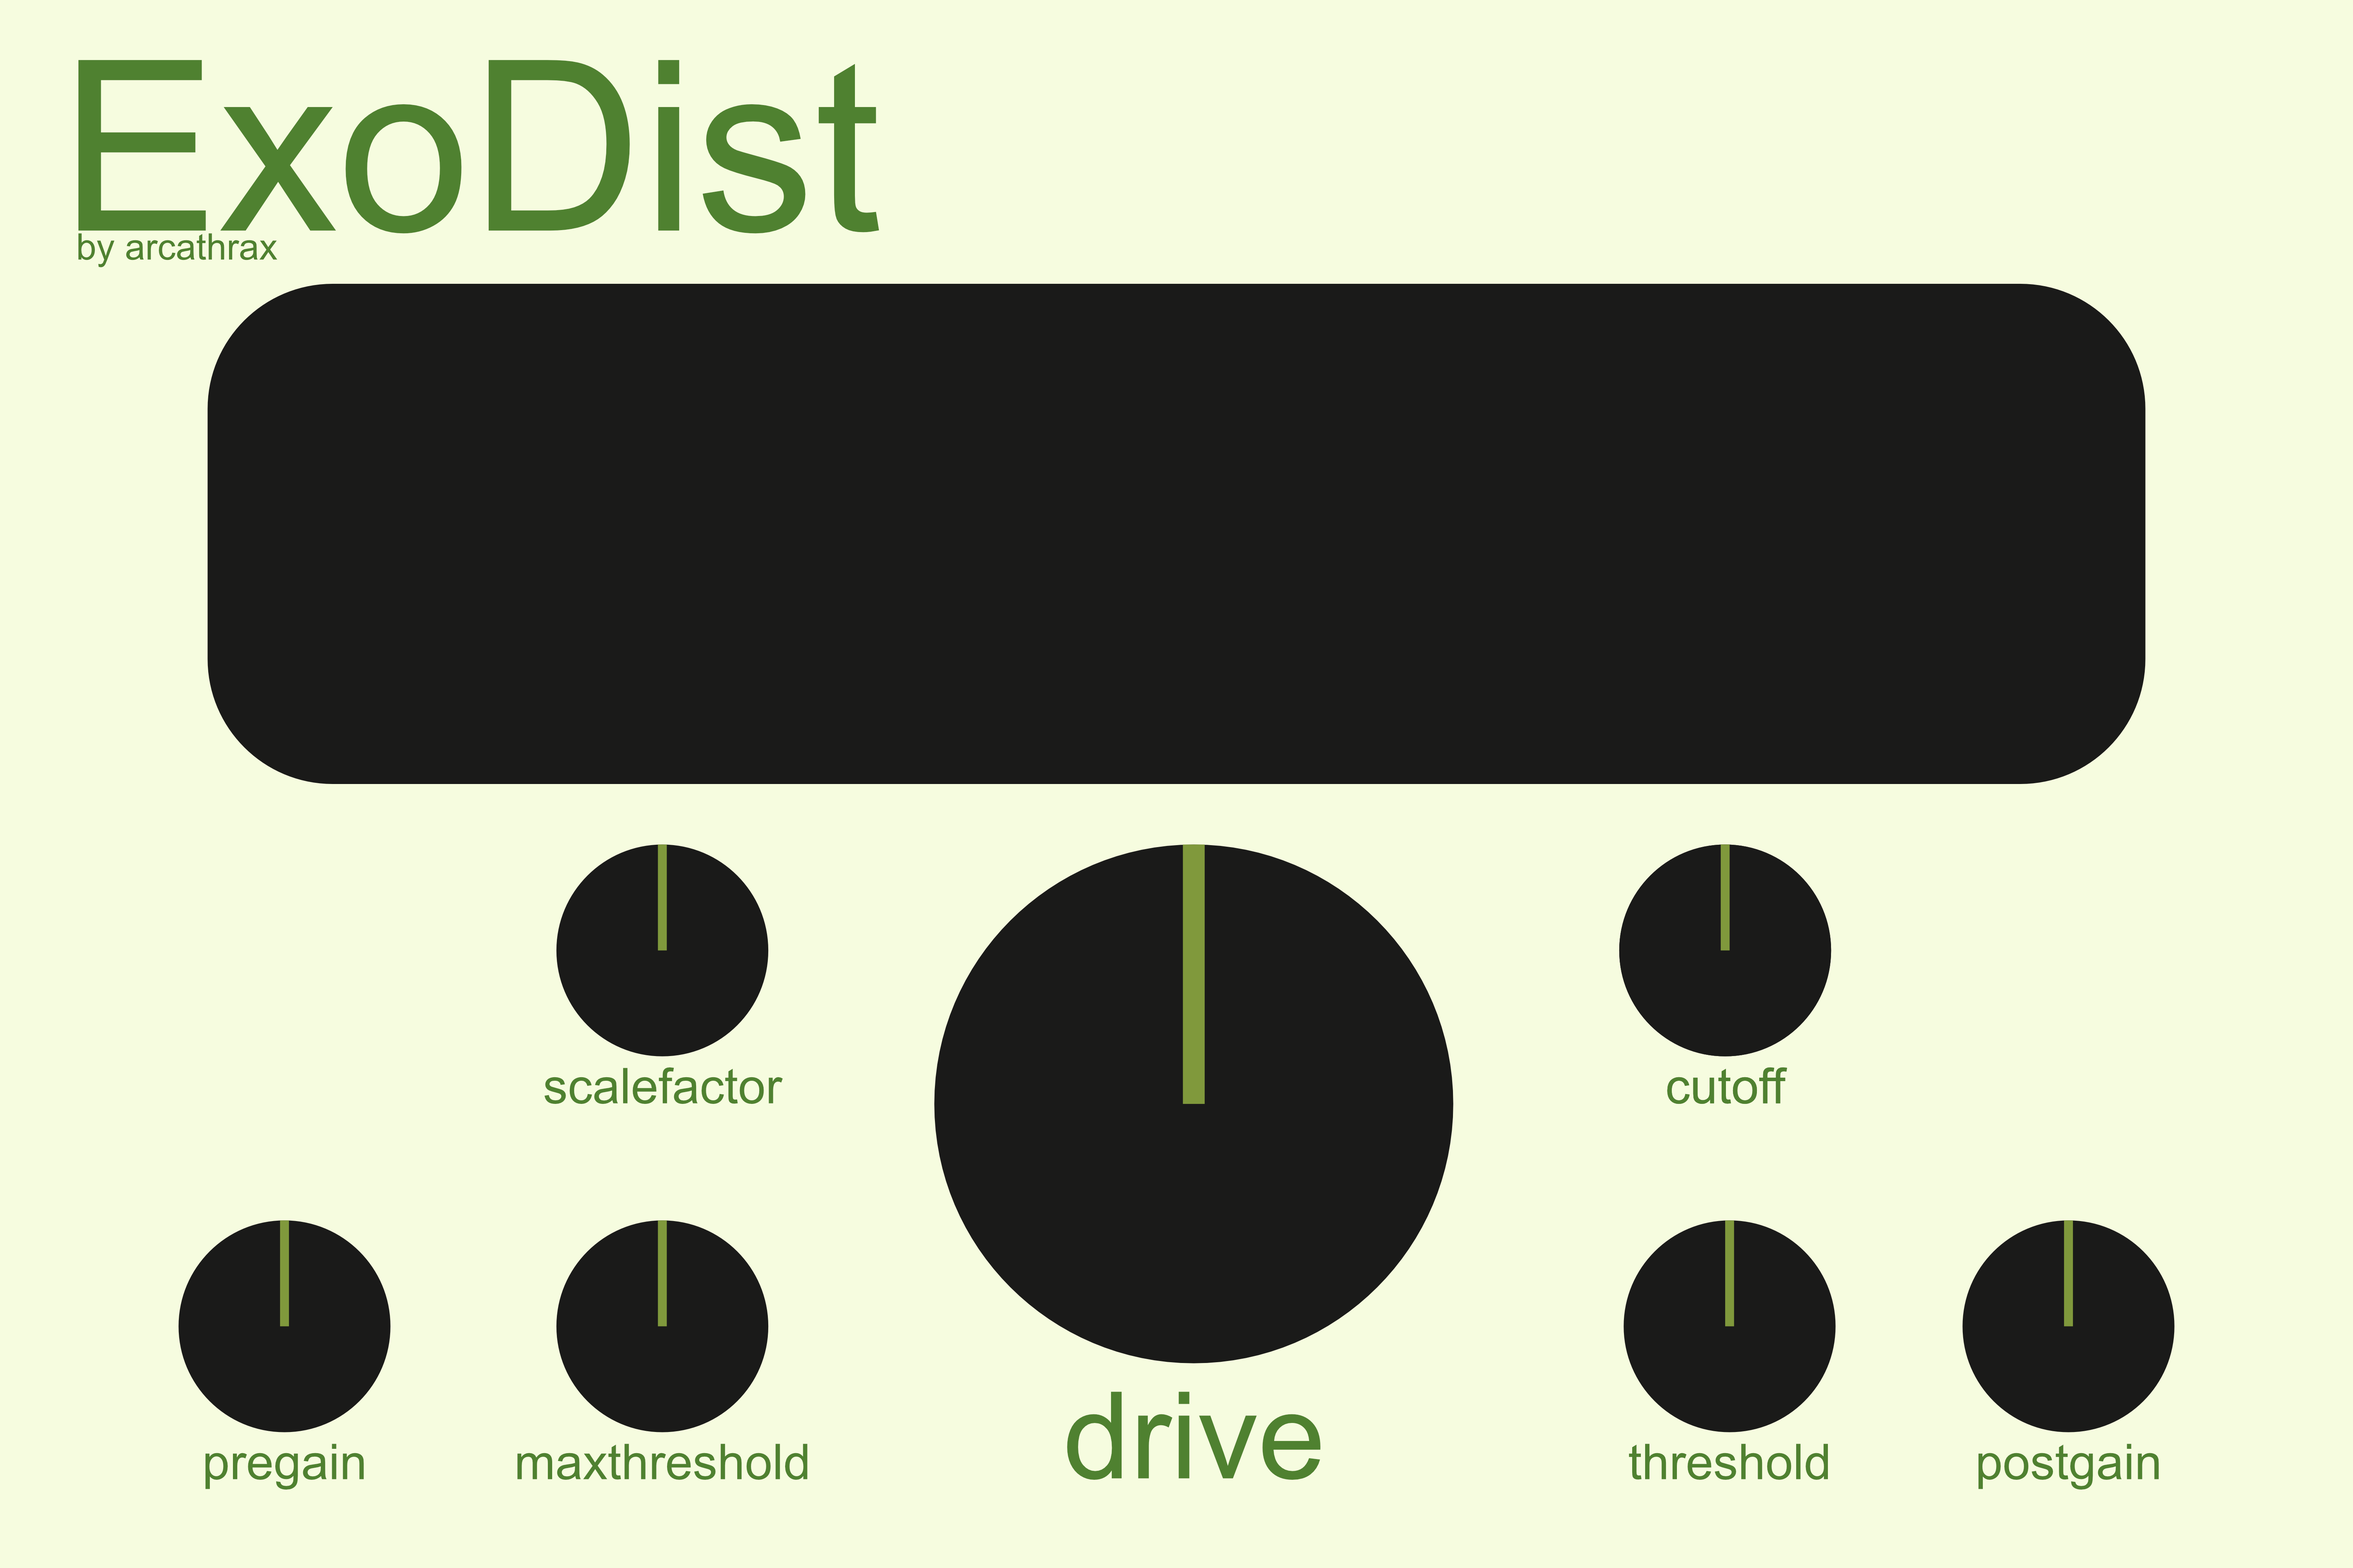
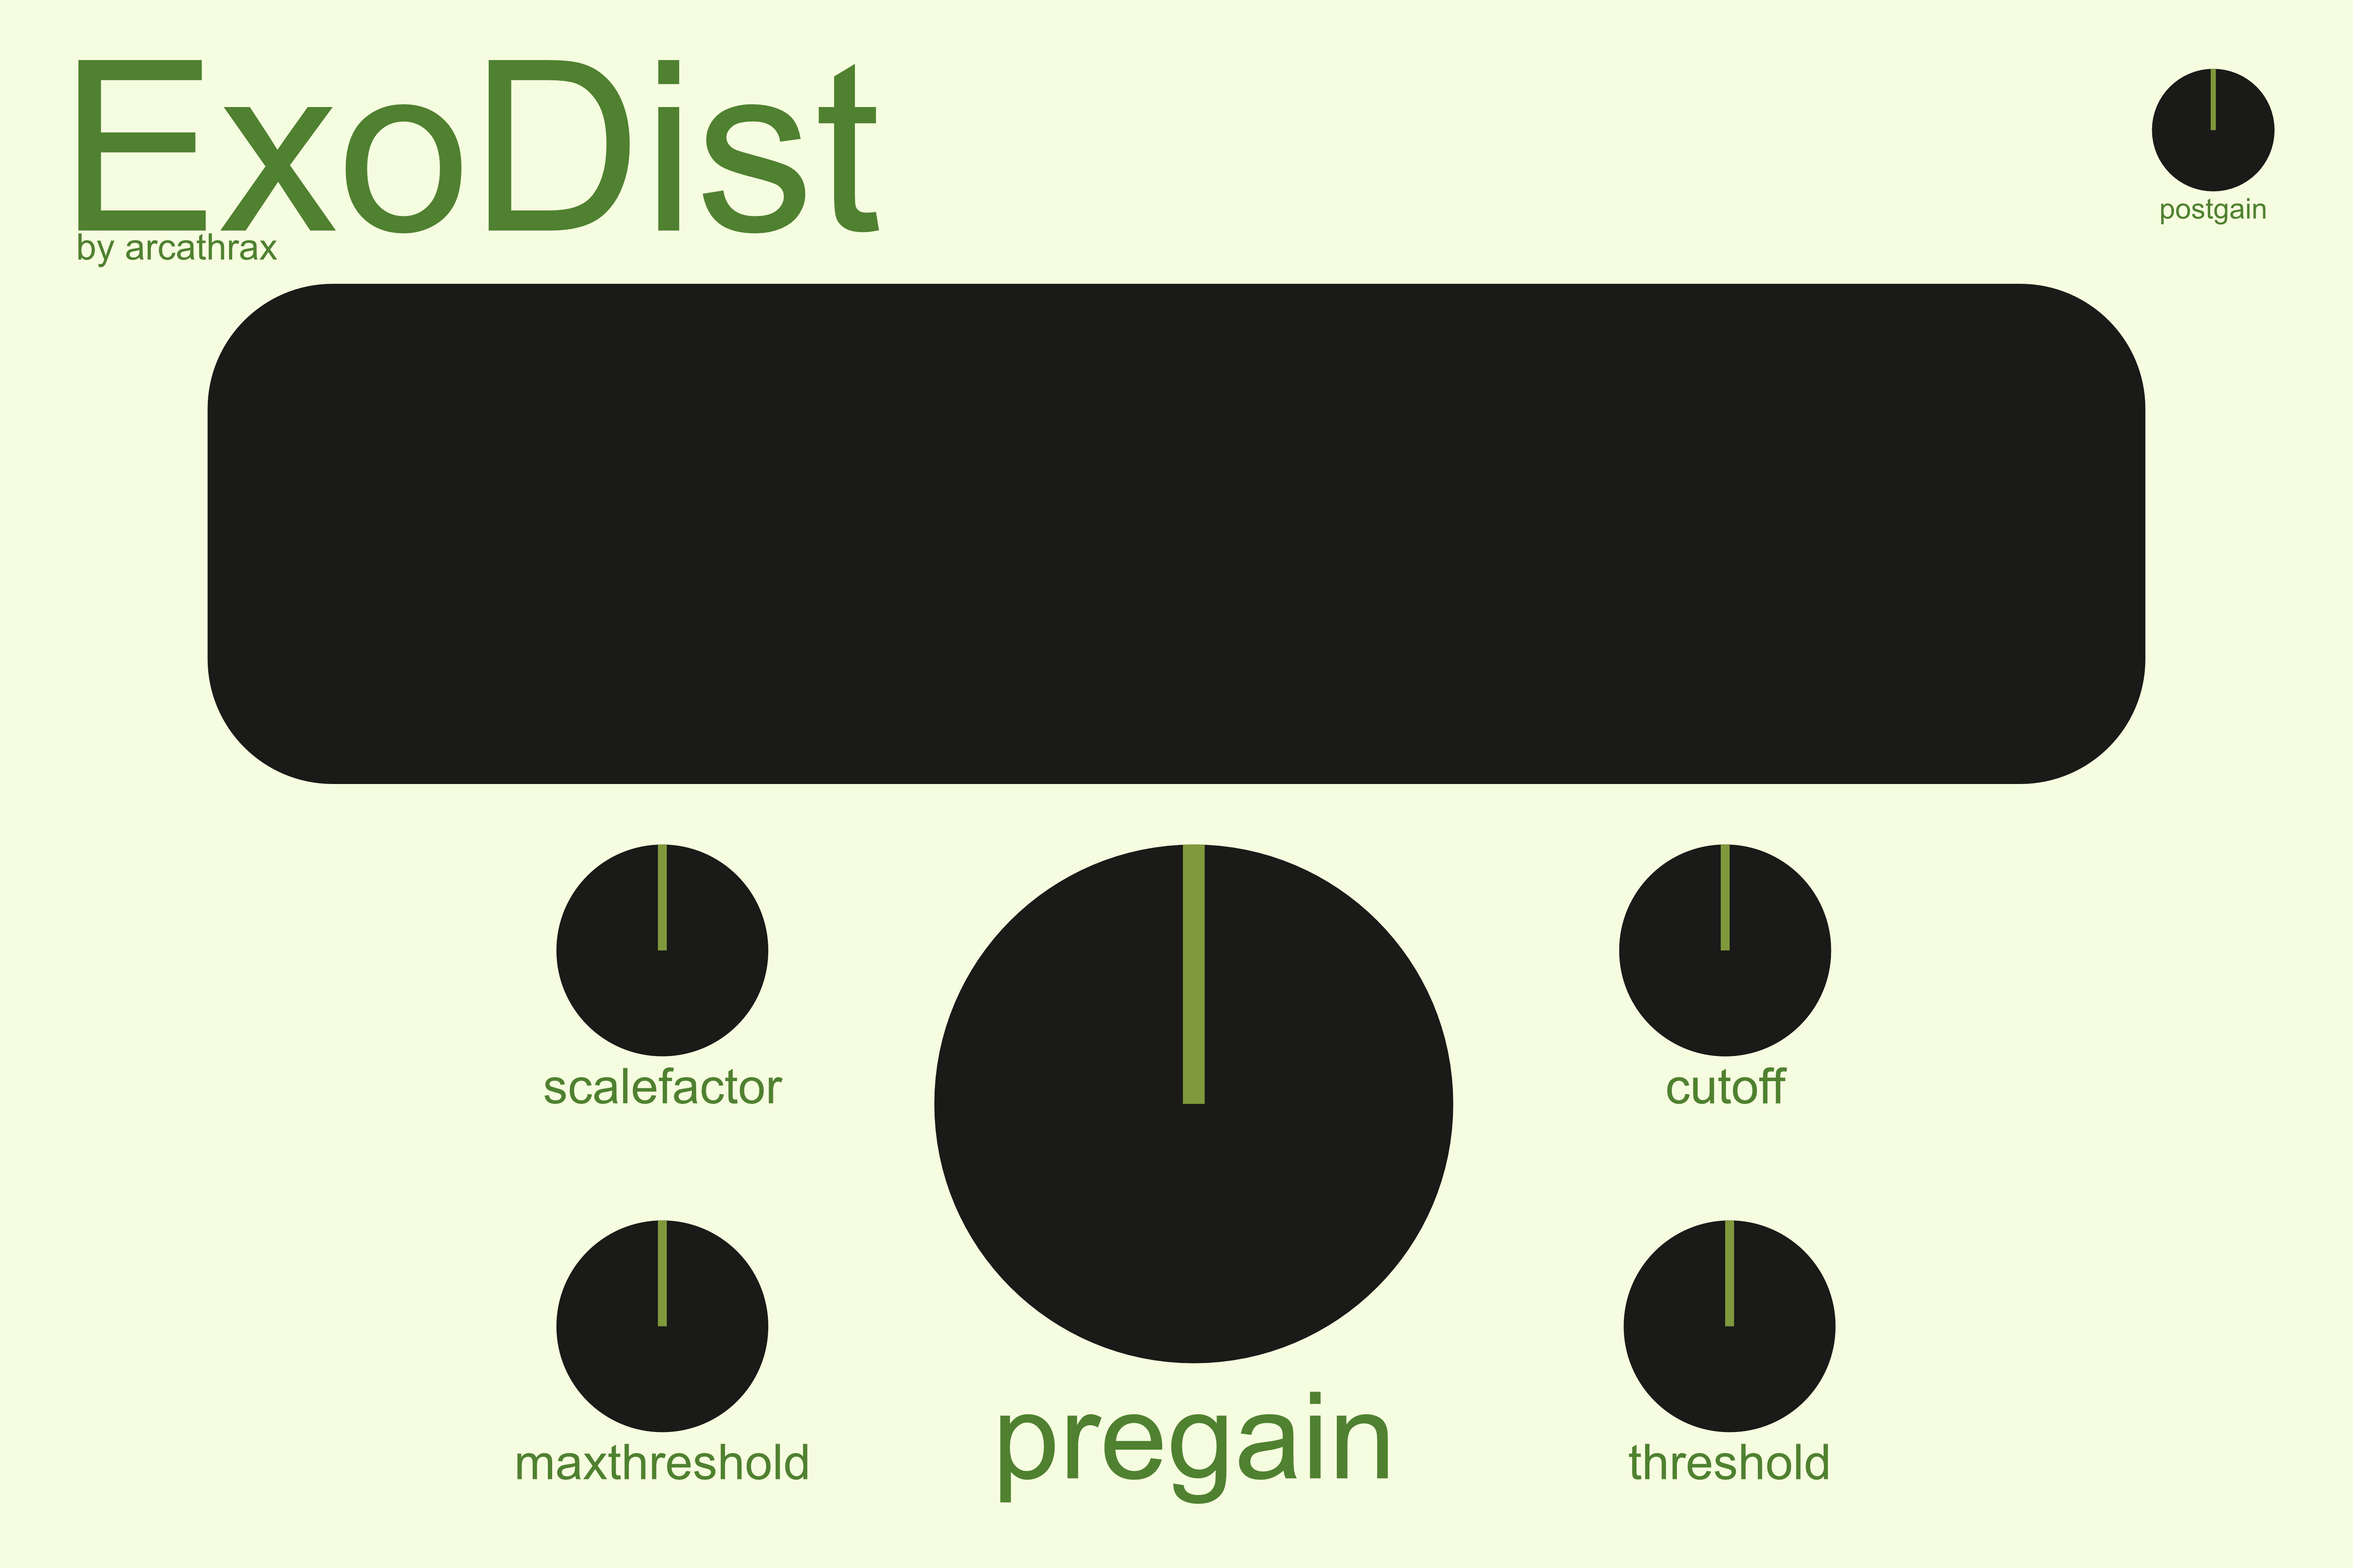
👷♂ added pregain parameter to ui

diff --git a/Source/PluginEditor.cpp b/Source/PluginEditor.cpp
@@ -42,7 +42,9 @@ void ExoDistAudioProcessorEditor::paint (juce::Graphics& g)
     titleLabel.setFont(titleFontOptions);
     titleLabel.setText("ExoDist", juce::NotificationType::dontSendNotification);
     titleLabel.setColour(juce::Label::textColourId, juce::Colour(TitleColor));
-    titleLabel.setJustificationType(juce::Justification::centred);
+    titleLabel.setJustificationType(juce::Justification::left);
+    
+    addAndMakeVisible(titleLabel);
     
     // setup description labels
     juce::FontOptions descriptionFontOptions = juce::FontOptions(15.f, juce::Font::plain);
@@ -64,19 +66,61 @@ void ExoDistAudioProcessorEditor::paint (juce::Graphics& g)
     postGainLabel.setText("postgain", juce::NotificationType::dontSendNotification);
     mixLabel.setText("mix", juce::NotificationType::dontSendNotification);
     
-    authorLabel.setColour(juce::Label::textColourId, juce::Colour(TitleColor));
-    preGainLabel.setColour(juce::Label::textColourId, juce::Colour(TitleColor));
-    scaleFactorLabel.setColour(juce::Label::textColourId, juce::Colour(TitleColor));
-    maxThresholdLabel.setColour(juce::Label::textColourId, juce::Colour(TitleColor));
-    cutoffLabel.setColour(juce::Label::textColourId, juce::Colour(TitleColor));
-    thresholdLabel.setColour(juce::Label::textColourId, juce::Colour(TitleColor));
-    postGainLabel.setColour(juce::Label::textColourId, juce::Colour(TitleColor));
-    mixLabel.setColour(juce::Label::textColourId, juce::Colour(TitleColor));
+    authorLabel.setColour(juce::Label::textColourId, juce::Colour(ContentColor));
+    preGainLabel.setColour(juce::Label::textColourId, juce::Colour(ContentColor));
+    scaleFactorLabel.setColour(juce::Label::textColourId, juce::Colour(ContentColor));
+    maxThresholdLabel.setColour(juce::Label::textColourId, juce::Colour(ContentColor));
+    cutoffLabel.setColour(juce::Label::textColourId, juce::Colour(ContentColor));
+    thresholdLabel.setColour(juce::Label::textColourId, juce::Colour(ContentColor));
+    postGainLabel.setColour(juce::Label::textColourId, juce::Colour(ContentColor));
+    mixLabel.setColour(juce::Label::textColourId, juce::Colour(ContentColor));
+    fftLabel.setColour(juce::Label::backgroundColourId, juce::Colour(HighlightColor));
+    
+    preGainLabel.setJustificationType(juce::Justification::centred);
+    
+    addAndMakeVisible(authorLabel);
+    addAndMakeVisible(preGainLabel);
+    addAndMakeVisible(scaleFactorLabel);
+    addAndMakeVisible(maxThresholdLabel);
+    addAndMakeVisible(cutoffLabel);
+    addAndMakeVisible(thresholdLabel);
+    addAndMakeVisible(postGainLabel);
+    addAndMakeVisible(mixLabel);
+    
+    addAndMakeVisible(fftLabel);
 }
 
 void ExoDistAudioProcessorEditor::resized()
 {
     auto fullWindowSection = getLocalBounds();
+    
+    // setup main sections
+    auto titleSection = fullWindowSection.removeFromTop(fullWindowSection.getHeight()*0.2);
+    auto fftSection = fullWindowSection.removeFromTop(fullWindowSection.getHeight()*0.25);
+    auto parameterSection = fullWindowSection;
+    
+    // setup title section
+    auto titleLabelSection = titleSection.removeFromTop(titleSection.getHeight()*0.85);
+    auto authorLabelSection = titleSection;
+    titleLabel.setBounds(titleLabelSection);
+    authorLabel.setBounds(authorLabelSection);
+    
+    // setup fft section
+    fftLabel.setBounds(fftSection);
+    
+    auto leftParametersSection = parameterSection.removeFromLeft(parameterSection.getWidth()*0.33);
+    auto middleParametersSection = parameterSection.removeFromLeft(parameterSection.getWidth()*0.50);
+    auto rightParametersSection = parameterSection;
+    
+    // setup left parameters
+    
+    // setup middle parameters
+    auto preGainKnobSection = middleParametersSection.removeFromTop(middleParametersSection.getHeight()*0.85);
+    auto preGainLabelSection = middleParametersSection;
+    preGainSlider.setBounds(preGainKnobSection);
+    preGainLabel.setBounds(preGainLabelSection);
+    
+    // setup right parameters
 }
 
 

diff --git a/Source/PluginEditor.h b/Source/PluginEditor.h
@@ -60,6 +60,8 @@ private:
     juce::Label thresholdLabel;
     juce::Label postGainLabel;
     juce::Label mixLabel;
+    
+    juce::Label fftLabel;
 
     using APVTS = juce::AudioProcessorValueTreeState;
     using Attachment = APVTS::SliderAttachment;
